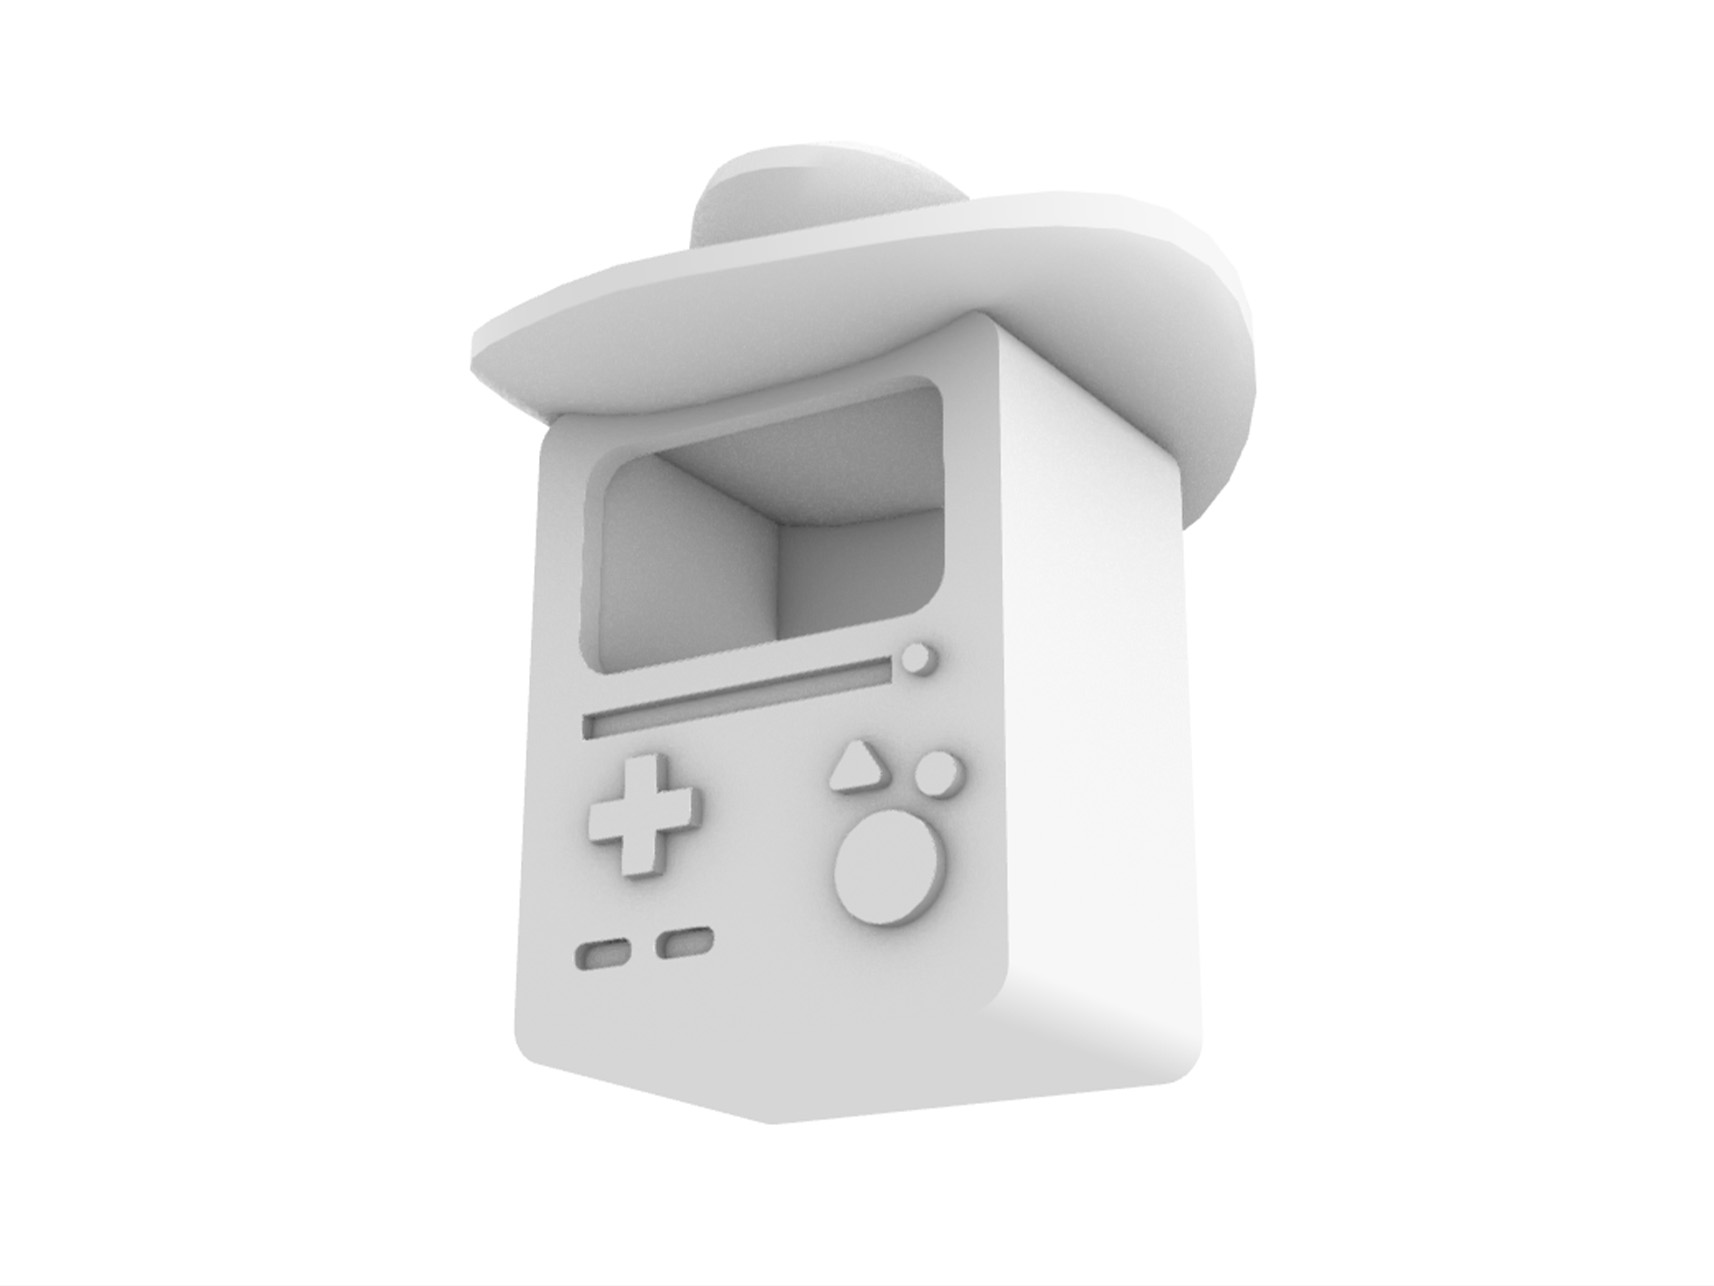
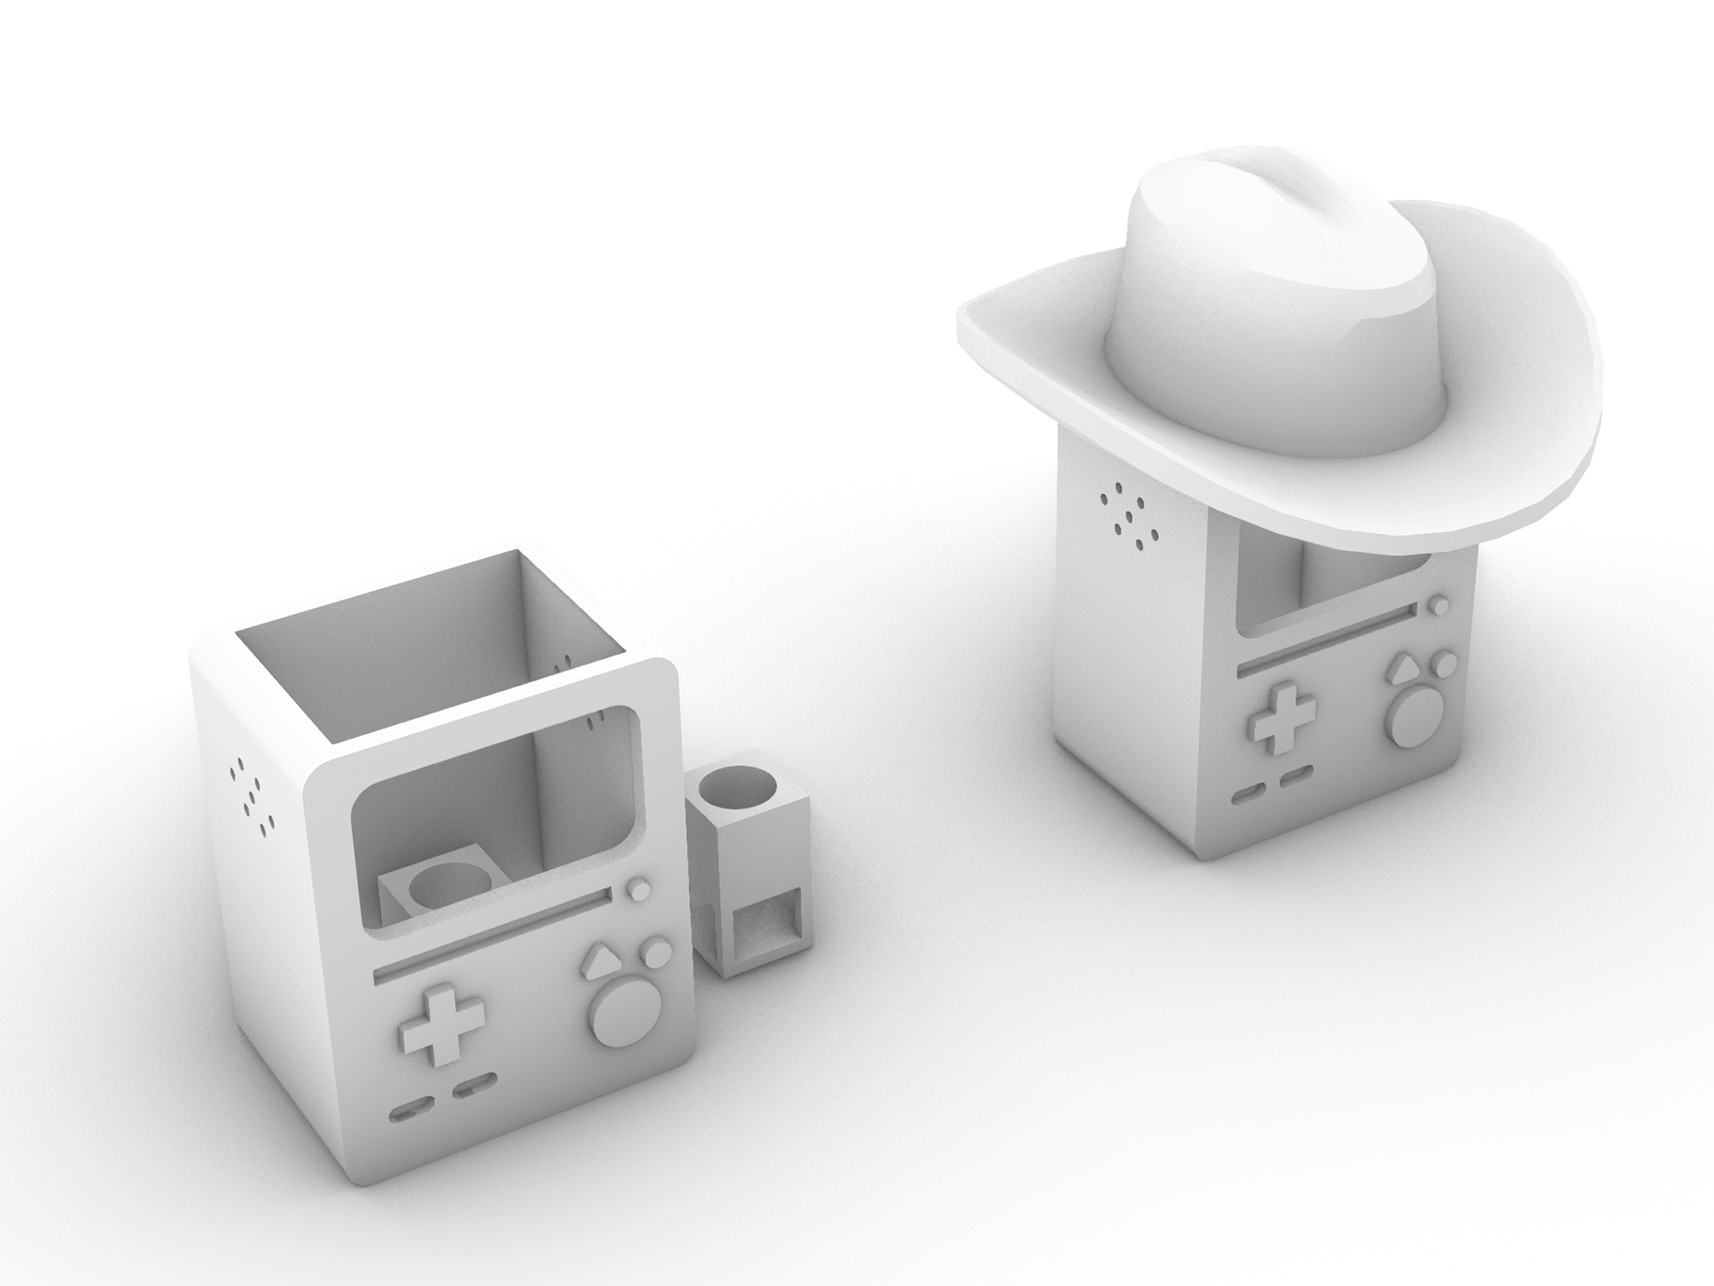
update

diff --git a/assignment6.html b/assignment6.html
@@ -26,8 +26,8 @@
             <p>It took a few tries and patching some holes, but I was able to make a shape that looks like him!</p>
             <p><img src="images/as6/4.png" width=400></p>
             <p><img src="images/as6/5.png" width=400></p>
-            <p>After that, I did some measurements and made a holder for the lightbulb and cord.</p>
-            <p><img src="images/as6/6.png" width=400></p>
+            <p>After that, I did some measurements and made a holder for the lightbulb and cord, as well as adding the holes on the side where the light will shine through.</p>
+            <p><img src="images/as6/mockup.jpg" width=400></p>
             <p>I also pulled a cowboy hat from Thingiverse to act as the "lid", but it keeps breaking into an open mesh when I work with it. I am going to work on printing and fitting everything else before I work on the cowboy hat, but that's where I've gotten so far!</p>
             
             <h3>Source Files</h3>
